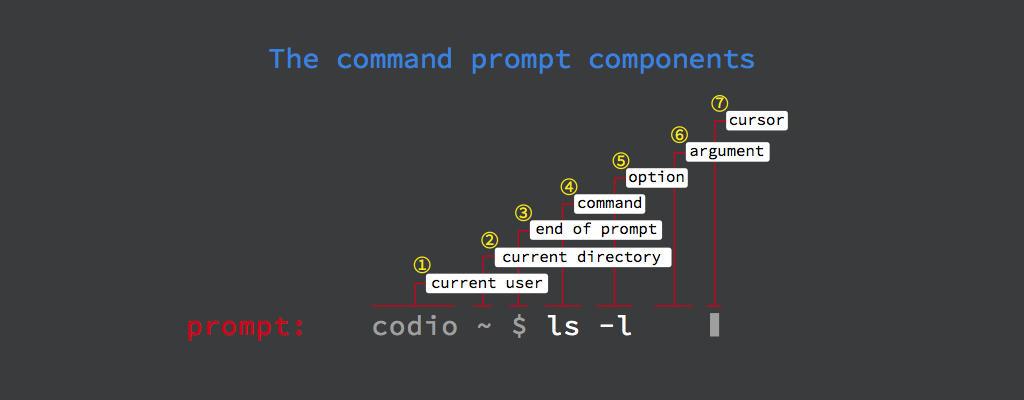
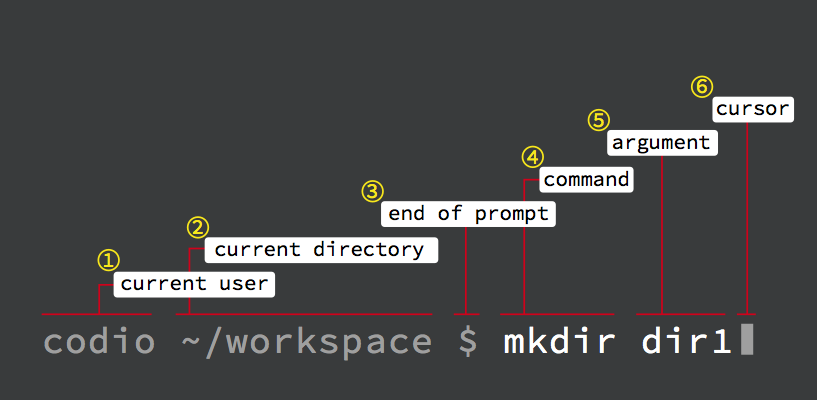
Commit before removing CLI1 v1

Changed region(s): [[0.0306, 0.18, 0.9792, 0.9], [0.2448, 0.12, 0.7344, 0.18]]

diff --git a/.guides/content/Creating-files-576d.md b/.guides/content/Creating-files-576d.md
@@ -1,0 +1,30 @@
+## The `mkdir` command makes directories, but what about files?
+
+Wonderful question! You may be guessing that in order to create or make files, the command would be something like: `mkfile`, right? Well, in this case it isn't.
+
+To create a file in the current directory, execute the following:
+
+1. Click on the terminal window
+2. Type: `touch empty-file2.txt`
+3. Hit the `return key`
+
+Execute the `ls` in the terminal, if you followed along with the course, you should be seeing this output:
+
+```
+codio@anita-basket:~/workspace$ ls                                                                             
+dir1  dir2  empty-file2.txt  empty-file.txt
+```
+
+|||definition
+### Command: `touch`
+__Definition:__
+If any file does not exist, the `touch` command creates it with default permissions.
+
+Additionaly, the `touch` commands needs an _argument_, in this case, the argument is the name of the file to be created, don't forget the file extension: 
+
+`touch name_of_the_file.file_extension`
+
+---
+
+__What is a *file extension*?__ File extensions are also known as _file formats_. You may be familiar with _.doc_ or _.xls_ for _Microsoft Word_ and _Microsoft Excel_ respectively. In most cases _file extensions_ determine the program that should or can read the file.
+|||

diff --git a/.guides/content/The-current-directory-e045.md b/.guides/content/The-current-directory-e045.md
@@ -7,9 +7,7 @@ codio@anita-basket:~/workspace$ ls
 dir1 empty-file.txt
 ```
 
-If you look at the output of the `ls` command: _dir1_, you'll notice that it matches the _dir1_ in the _file tree_. 
-
-_**dir1**_ is just the name of a folder or directory that is stored in the computer's memory. Directories can contain more directories or files inside them.
+If you look at the output of the `ls` command: `dir1 empty-file.txt`, you'll notice that it matches the _dir1_ and the _emtpy-file.txt_ in the _file tree_. 
 
 ### Understanding the file tree
 
@@ -18,7 +16,12 @@ On the panel at the left of the terminal window, we've got the __*file tree*__.
 |||definition
 #### File tree
 __Definition:__
-A way of displaying files and directories in a vertical representation.
+A way of displaying files and directories in a vertical representation. 
+
+In most cases, this interface allows the user to click on directories that contain more directories or files on them.
 |||
 
-As the definition 
+_**dir1**_ is just the name of a folder or directory that is stored in the computer's memory. Directories can contain more directories or files inside them.
+
+_**empty-file.txt**_ in the other hand, is the name of a file with the _.txt_ format that lives inside the current directory.
+

diff --git a/.guides/content/Creating-directories-288b.md b/.guides/content/Creating-directories-288b.md
@@ -1,0 +1,23 @@
+## I now know how to list existing directories and files, lets create them!
+
+_Bash_ commands show pretty useful when working with the _file tree_. For example, if you are asked to start a new software project, most certainly you'll need to create a directory that may hold more files and directories on it.
+
+Good idea! Lets do that:
+
+1. Click on the terminal window
+2. Type: `mkdir dir2`
+3. Hit the _return key_
+
+Can you guess what just happened? Execute the `ls` command to verify the existance of your new _dir2_ directory.
+
+|||definition
+### Command: `mkdir`
+__Definition:__
+The `mkdir` command _makes directories_. 
+
+Additionally, the `mkdir` command needs an _argument_, meaning that the user needs to specify the name of the directory to be created in the following format:
+
+`mkdir name_of_the_directory`
+
+Note the whitespace after the `mkdir` command? If there's no whitespace, _bash_ will interpret it as another command.
+|||

diff --git a/.guides/content/Wrap-up-8f97.md b/.guides/content/Wrap-up-8f97.md
@@ -1,0 +1,14 @@
+## So far we've learned 4 _bash_ commands
+
+We now know that the command line interface, CLI for short, is also known as the _terminal window_ or _terminal_ for short as well.
+
+_Bash_ in the other hand, runs inside the terminal and is in charge of recognizing, interpreting and executing the text commands written in the prompt:
+
+![command prompt components](.guides/img/cmd-prompt-components.png)
+
+|||challenge
+### 4 bash commands so far
+The terminal window wants to test your commands knowledge by asking you some questions, are you ready to demonstrate your bash skills?
+
+Click on the terminal window and type the `testmybash` command.
+|||
